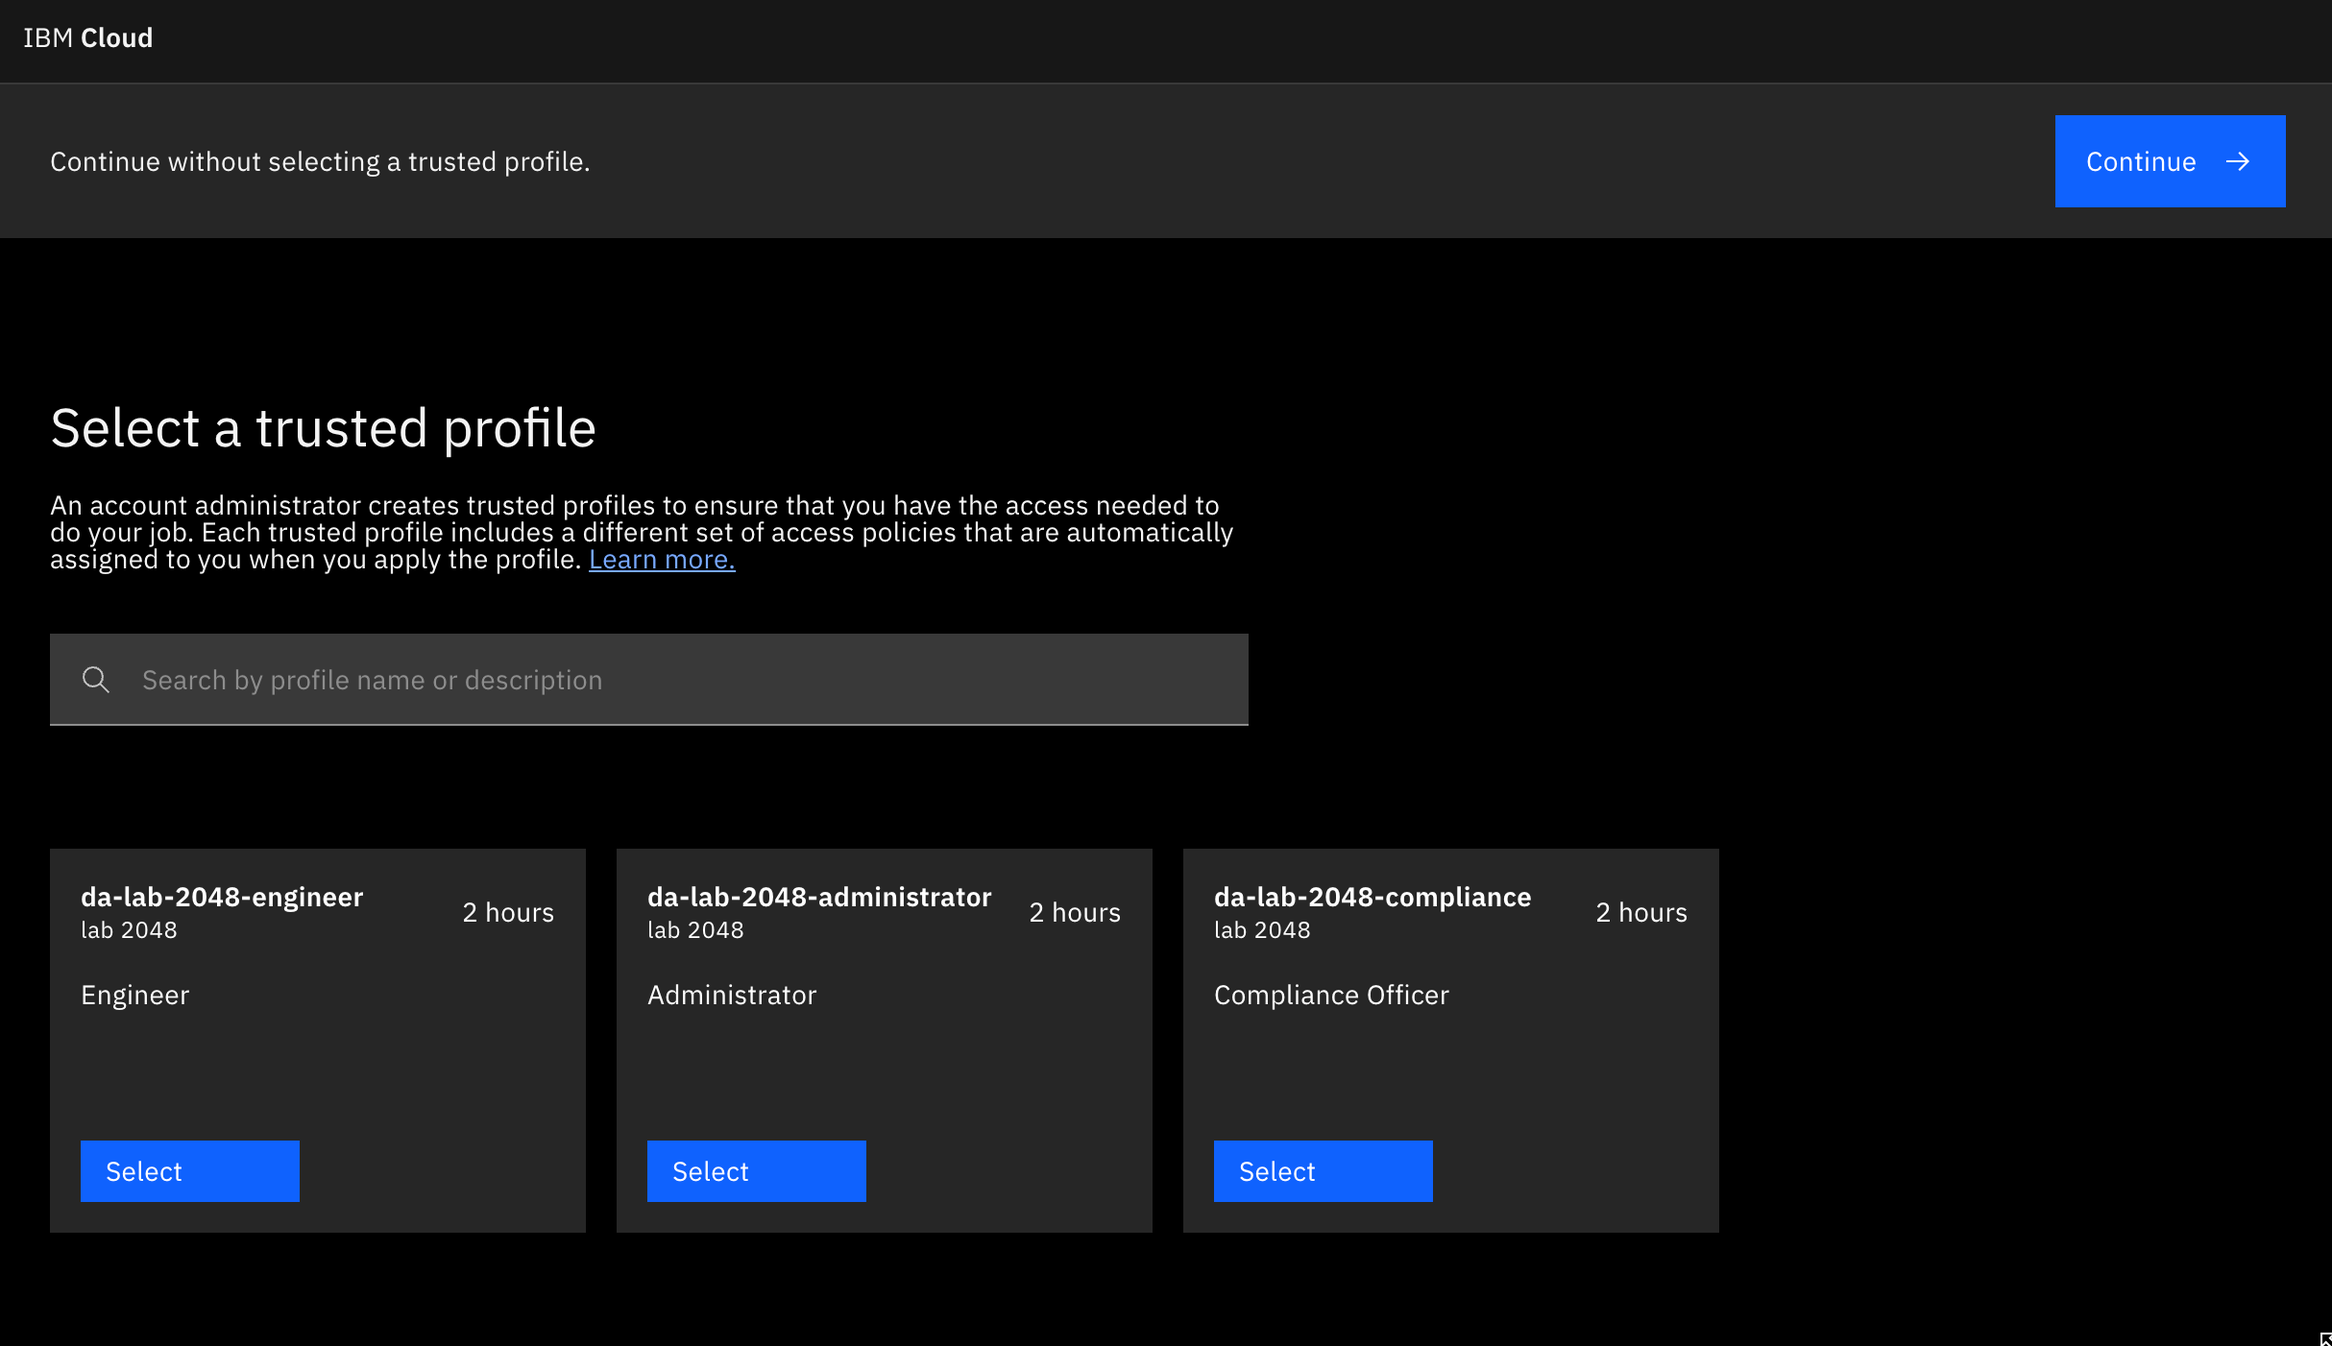
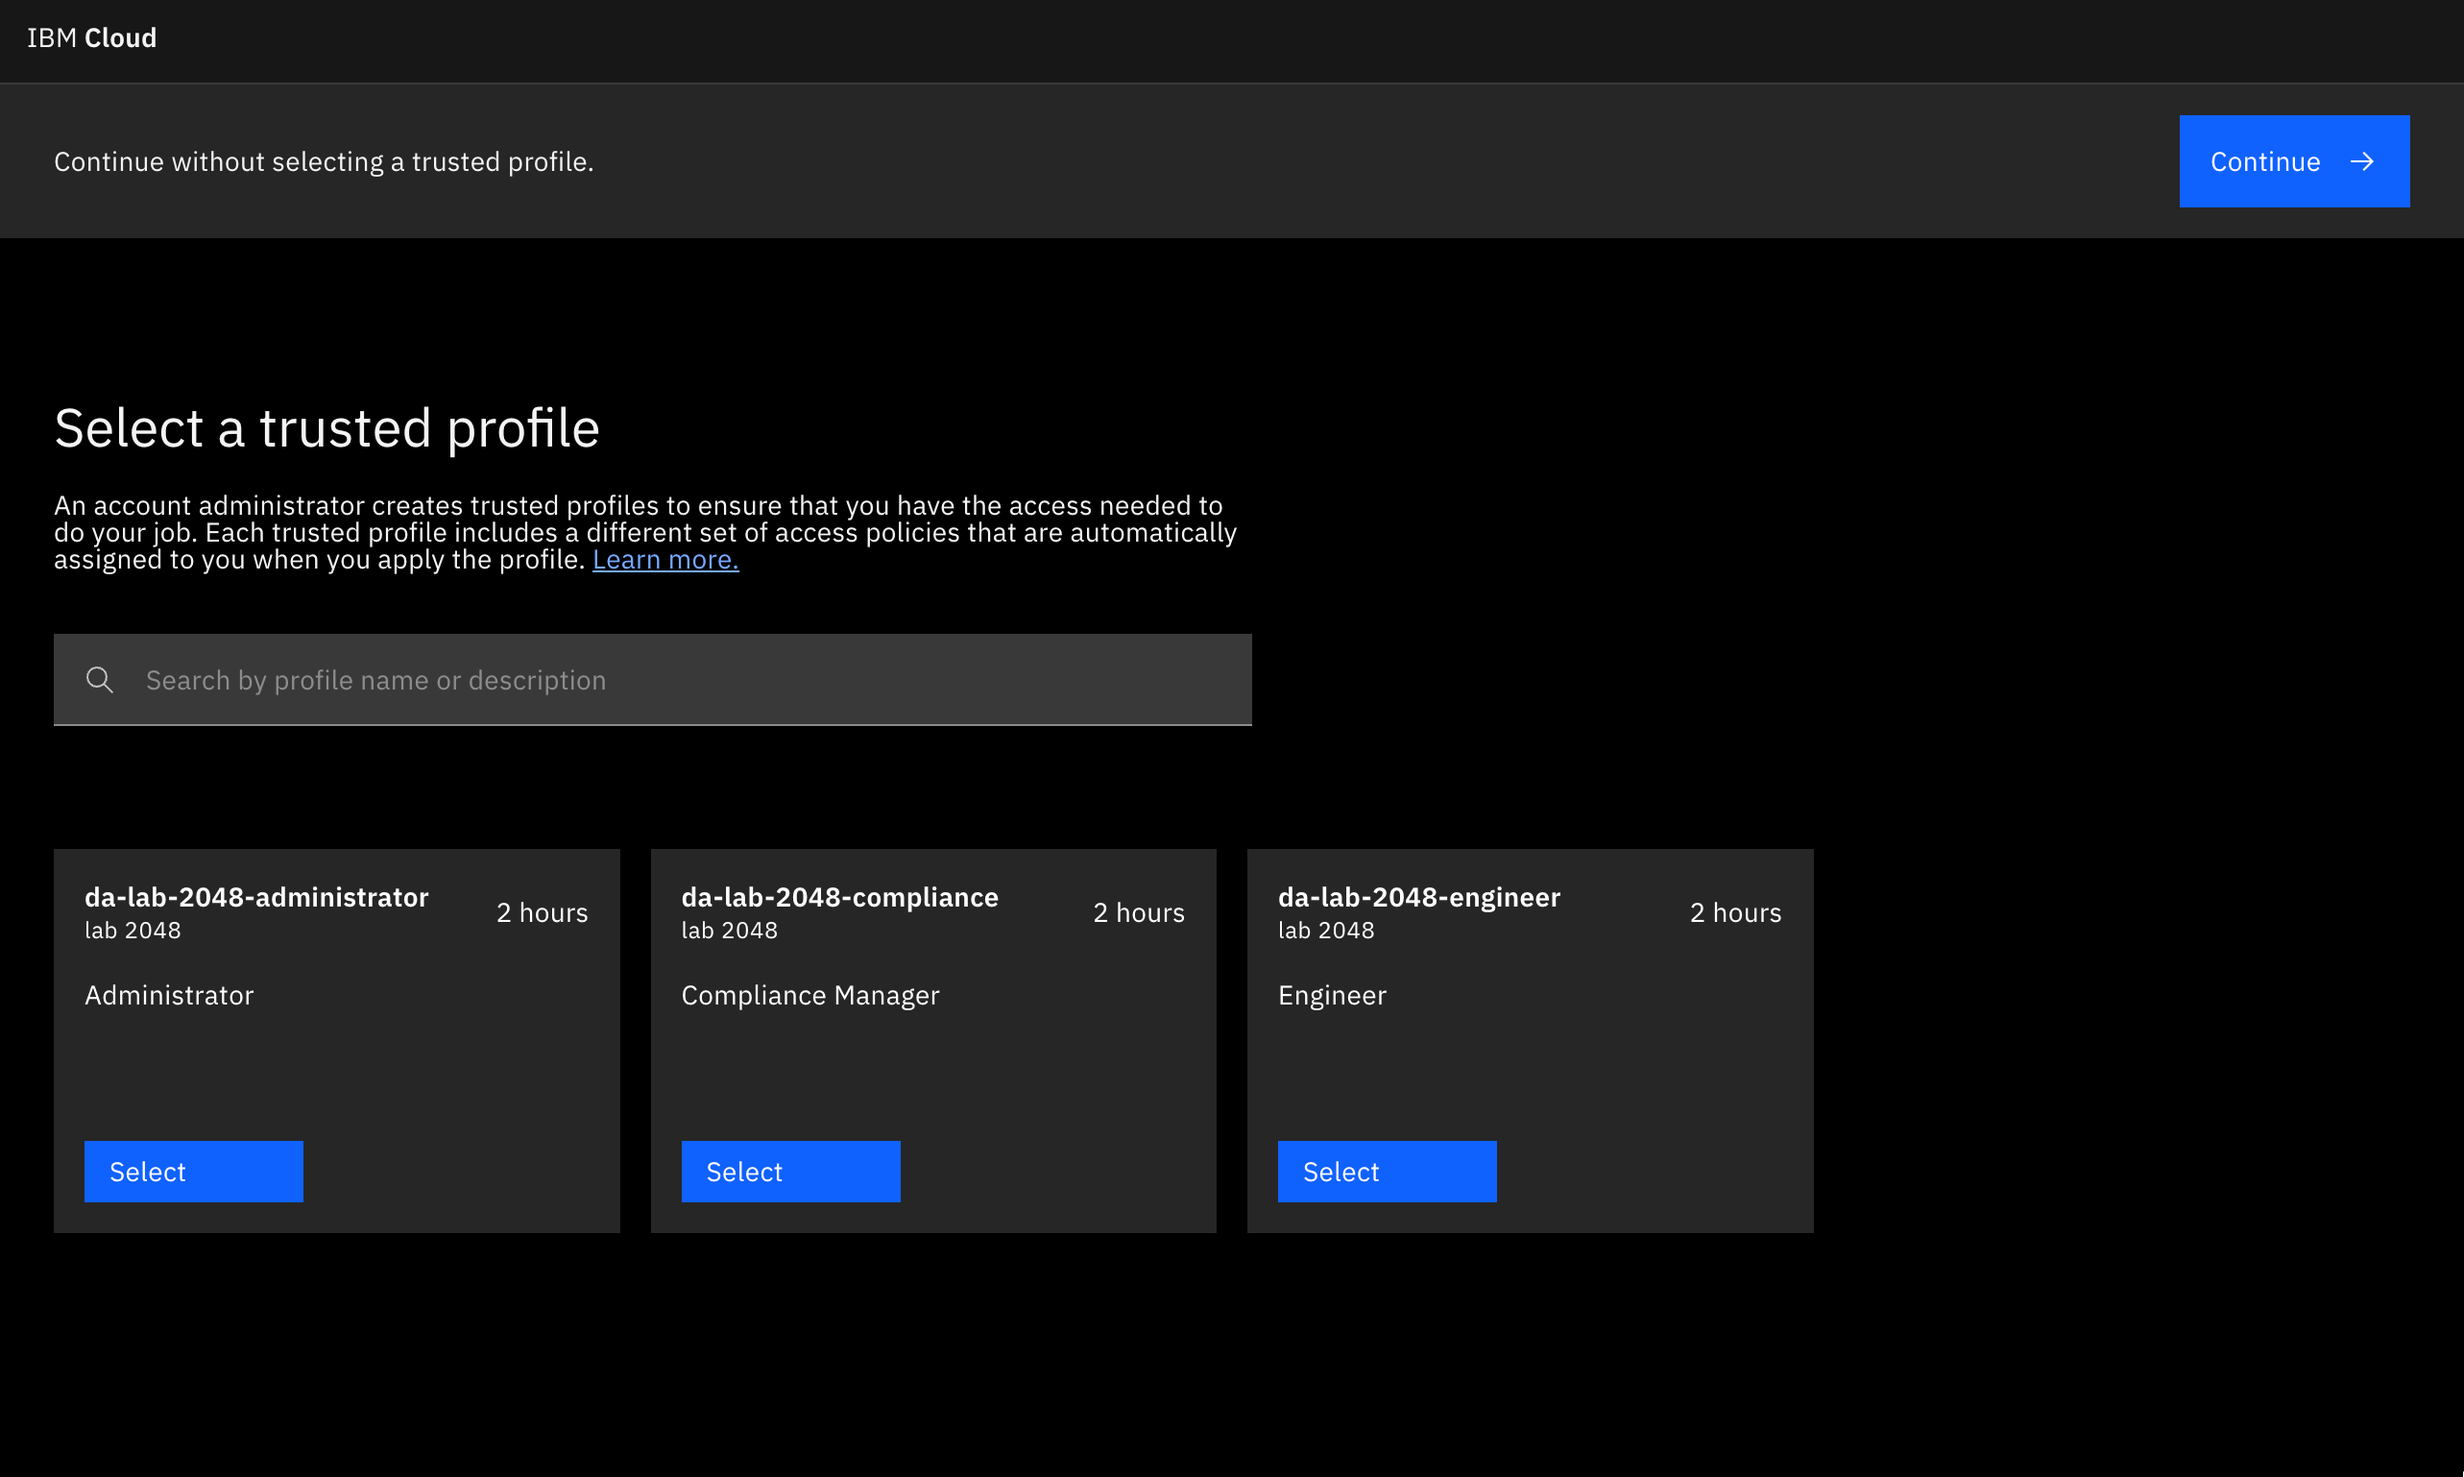
✅ define compliance rules!

diff --git a/docs/dalab-2048/25-compliance.md b/docs/dalab-2048/25-compliance.md
@@ -1,28 +1,64 @@
 # Define compliance rules as Compliance Manager
 
-## About SCC
-
-Get an introduction to SCC. Proceed to [SCC Overview](https://cloud.ibm.com/security-compliance/overview) to understand its steps:
-
-1. Define your requirements.
-2. Implement secure deployments.
-3. Assess your posture.
+The Engineer will be deploying resources in a specific resource group. You are going to configure a custom profile and an attachment.
+   * A profile is a collection of related controls that you can use to evaluate your organization's compliance posture. In this custom profile, you will be selecting a very specific rule that ensures encryption is enabled for data at rest.
+   * An attachment is the connection between a profile and a set of resources that defines the way an evaluation is conducted.
 
 ## Log in as Compliance Manager
 
-1. Log out from IBM Cloud console.
+1. Log out from the IBM Cloud console.
+  ![](images/25-logout.png ':size=400')
 1. Go to https://ibm.biz/lab2048-invite.
 1. Enter the `Username` and `Password` provided for the lab.
 1. Click **Sign in**.
-1. You must provide a trusted profile. **Select** the trusted profile tile labeled **Compliance Manager**.
-1. You should now be successfully logged in as an **Compliance Manager** on the **IBM Cloud Dashboard**.
+1. **Select** the trusted profile tile labeled **Compliance Manager**.
+1. You should now be successfully logged in as an **Compliance Manager** on the **IBM Cloud console**.
 
-## Create a Scan to Assess the Engineer Work
+## Define a custom profile with specific compliance controls
 
-- Head to SCC.
-- Design a custom profile emphasizing the control SC-28(1)(0).
-- Under Attachments, label it as "dalab-01-scan".
-- Select the custom profile and choose the dalab-01 resource in Scope.
-- Disable the automatic scan. Initiate it manually when needed.
+1. Go to Security and Compliance at https://cloud.ibm.com/security-compliance/overview.
+   * Alternatively, use the navigation menu to go to the Security and Compliance Overview page: ☰ > Security and Compliance > Overview.
+1. Select **Profiles** in the left menu.
+1. Click **Create**.
+1. In **Details**:
+   1. Set **Name** to `<your-username>`. As example `dalab-123`.
+   1. Set **Version** to **1.0.0**.
+   1. Set **Description** to **Controls for my organization**.
+   1. Click **Next**.
+1. In **Controls**:
+   1. Click **Add**.
+   1. Select **IBM Cloud for Financial Services**.
+   1. Click **Next**
+   1. Search the control named `SC-28(1)(0)`. This control requires components of a system to use encryption.
+   1. Select the control.
+      ![](images/25-select-controls.png ':size=400')
+   1. Click **Add**.
+   1. Back to the **Controls** table, click **Next**.
+1. In **Parameters**, click **Next**. The control you selected has no specific parameters to configure.
+1. In **Review**, click **Create**.
+
+The description of the control `SC-28(1)(0)` reads as _The information system implements cryptographic mechanisms to prevent unauthorized disclosure and modification of [confidential customer data] on [organization-defined information system components including portable computers, mobile devices, and electronic removable media]._ In IBM Cloud, this will translate as a requirement to enable encryption using customer-managed keys (Keep Your Own Key - KYOK) for all services that support encryption.
+   ![](images/25-control-description.png ':size=600')
+
+?> The IBM Cloud for Financial Services library contains more than 500 controls defined in collaboration with financial institutions.
+
+## Create an attachment to evaluate the resources deployed by the Engineer
+
+Once the profile is created, you can create an attachment.
+
+1. From the **Actions** menu, select **Attach**.
+1. In **Details**, set the **Name** to `<your-username>-encryption-only`, as example `dalab-123-encryption-only`.
+1. Click **Next**.
+1. In **Profile**, set the **Profile** to the one you created in the previous step.
+1. In **Scope**, select the entry named after your username, as example `dalab-123`. This entry refers to the _resource group_ where the Engineer will deploy resources.
+1. Click **Next**.
+1. In **Scan settings**, uncheck **Enable scan**. This gives the ability to configure the frequency at which you want to evaluate your selected resources. In this lab, you will run the scan on demand so you don't need to activate that option.
+1. Click **Next**.
+1. Click **Create**.
+   ![](images/25-create-attachment.png ':size=600')
+
+?> With the ability to run the evaluation daily, you can assess your compliance posture continuously and take immediate actions when non-compliant configurations are detected.
+
+At this stage, no resources have been deployed in the Engineer but your controls are in place. Time to become an Engineer and to deploy resources in the cloud!
 
 ⇨ [Continue with Engineer section](30-engineer.md)

diff --git a/docs/dalab-2048/40-compliance.md b/docs/dalab-2048/40-compliance.md
@@ -2,12 +2,12 @@
 
 ## Log in as Compliance Manager
 
-1. Log out from IBM Cloud console.
+1. Log out from the IBM Cloud console.
 1. Go to https://ibm.biz/lab2048-invite.
 1. Enter the `Username` and `Password` provided for the lab.
 1. Click **Sign in**.
-1. You must provide a trusted profile. **Select** the trusted profile tile labeled **Compliance Manager**.
-1. You should now be successfully logged in as an **Compliance Manager** on the **IBM Cloud Dashboard**.
+1. **Select** the trusted profile tile labeled **Compliance Manager**.
+1. You should now be successfully logged in as an **Compliance Manager** on the **IBM Cloud console**.
 
 ## run scan
 

diff --git a/docs/dalab-2048/30-engineer.md b/docs/dalab-2048/30-engineer.md
@@ -2,12 +2,12 @@
 
 ## Log in as Compliance Manager
 
-1. Log out from IBM Cloud console.
+1. Log out from the IBM Cloud console.
 1. Go to https://ibm.biz/lab2048-invite.
 1. Enter the `Username` and `Password` provided for the lab.
 1. Click **Sign in**.
-1. You must provide a trusted profile. **Select** the trusted profile tile labeled **Engineer**.
-1. You should now be successfully logged in as an **Engineer** on the **IBM Cloud Dashboard**.
+1. **Select** the trusted profile tile labeled **Engineer**.
+1. You should now be successfully logged in as an **Engineer** on the **IBM Cloud console**.
 
 ## Catalog and Product Concepts
 

diff --git a/docs/dalab-2048/10-getting-started.md b/docs/dalab-2048/10-getting-started.md
@@ -15,4 +15,12 @@ In this lab we will cover a few topics and it's important to understand how they
 
 Each one of these components plays a critical role in ensure your organization is optimized for efficient workflows that meet the compliance standards of heavily regulated industries.
 
+## About SCC
+
+Get an introduction to SCC. Proceed to [SCC Overview](https://cloud.ibm.com/security-compliance/overview) to understand its steps:
+
+1. Define your requirements.
+2. Implement secure deployments.
+3. Assess your posture.
+
 ⇨ [Continue to Assign and monitor access](20-administrator.md)

diff --git a/docs/dalab-2048/sidebar.md b/docs/dalab-2048/sidebar.md
@@ -1,7 +1,7 @@
 - [🔎 Overview](README.md)
 - [🏎 Getting started!](10-getting-started.md)
 - [🔒 Assign and monitor access as Administrator](20-administrator.md)
-- [🕵 Define compliance rules as Compliance Manager](40-compliance.md)
+- [🕵 Define compliance rules as Compliance Manager](25-compliance.md)
 - [📡 Deploy an architecture as Engineer](30-engineer.md)
 - [🕵 Assess the compliance as Compliance Manager](40-compliance.md)
 - [🏁 Conclusion](50-conclusion)
